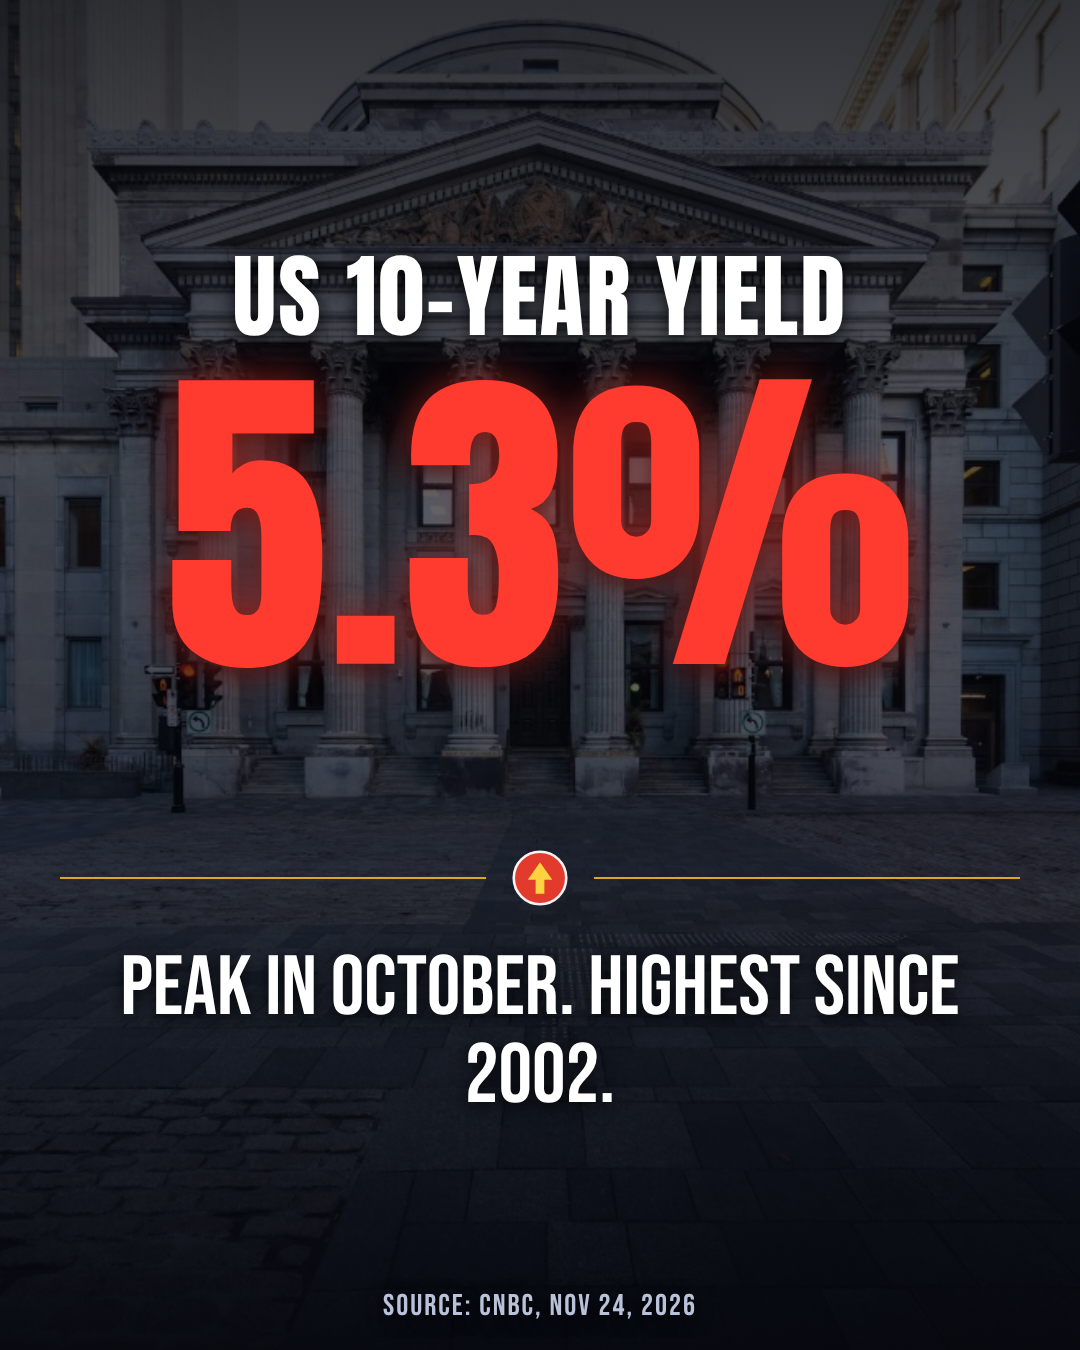
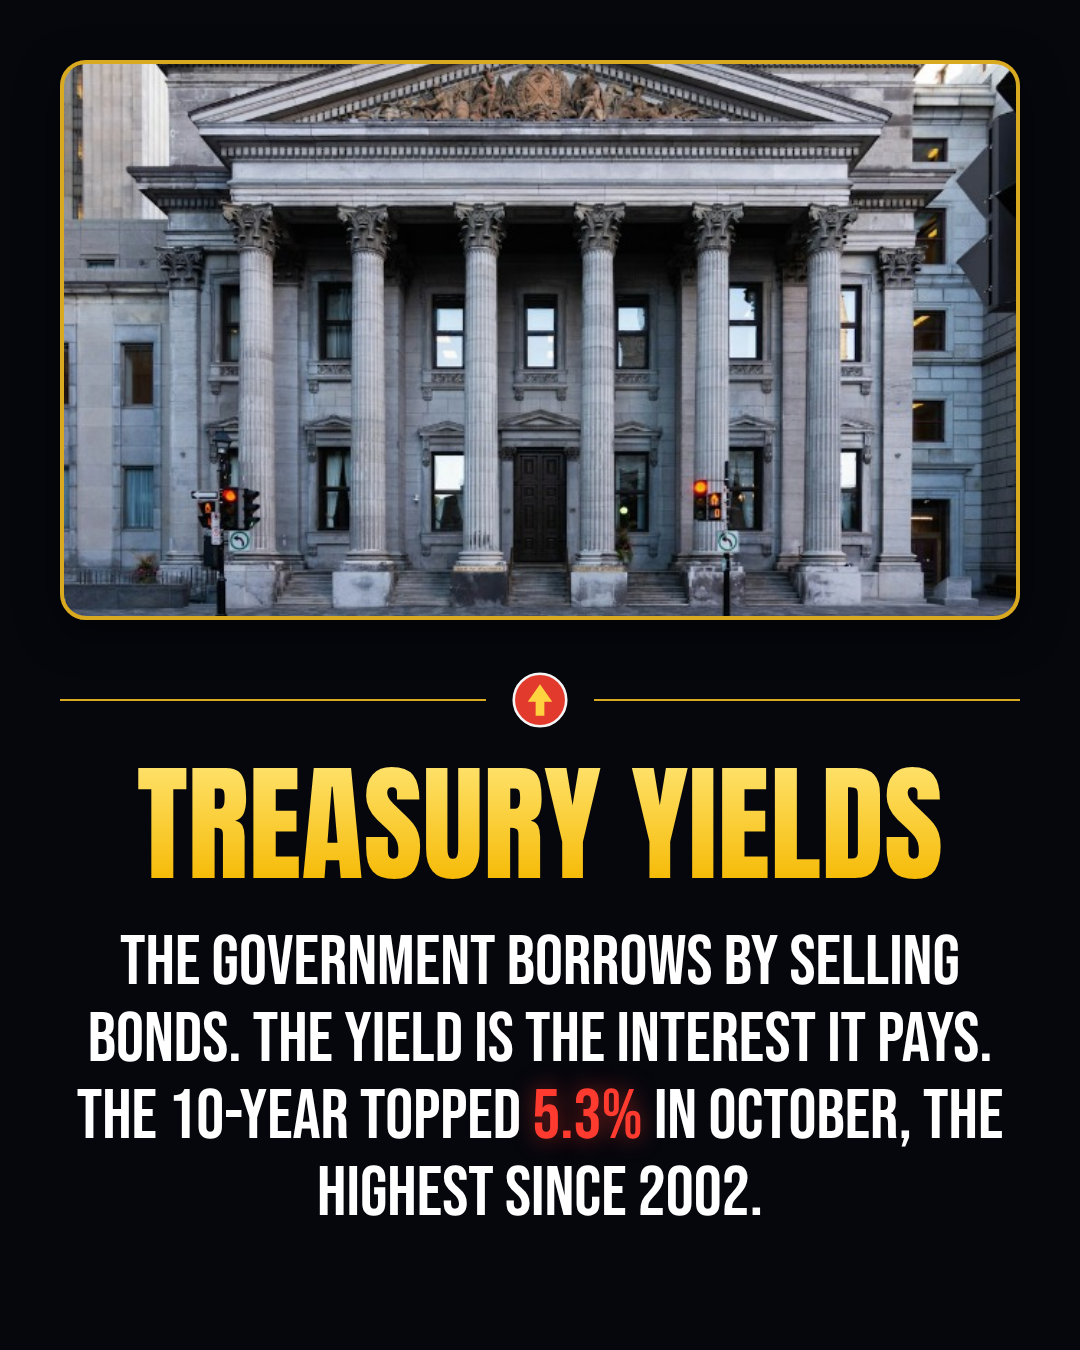
Photo carousel v2: small framed photos on slides 2-6, more text, no sources
Claude-Session: https://claude.ai/code/session_0194xvdwv4azv7wadnNrRT86

diff --git a/tools/make_photo_post.py b/tools/make_photo_post.py
@@ -3,7 +3,7 @@
 
 Usage: python3 make_photo_post.py spec_photo.json OUTDIR
 Spec: {"cover":{"title":"... [[24-YEAR]] ...","photo":"photos/x.jpg","pos":"50% 30%","hl":"red"},
-       "slides":[{"photo","pos","kicker","number","color","line","source"} x4],
+       "slides":[{"photo","pos","label","body","color"} x4]  (body: [[5.3%]] or [[red|5.3%]] = flashy number),
        "cta":{"photo","title","sub"}, "caption":"..."}
 [[...]] inside the cover title is painted in the flash colour hl. Photo paths are relative to the repo root.
 """
@@ -47,26 +47,40 @@ def cover(s):
             f'line-height:1.0;text-transform:uppercase;letter-spacing:1px;{GOLD}">{t}</div>')
 
 
+def flash(text, default):
+    """[[+4%]] or [[green|+4%]] -> flashy coloured number."""
+    def rep(m):
+        c, t = (m.group(1) or "").rstrip("|"), m.group(2)
+        col = FLASH.get(c, default) if c else default
+        return f'<span style="color:{col};text-shadow:0 0 22px {col}88">{t}</span>'
+    return re.sub(r"\[\[(?:(\w+)\|)?(.+?)\]\]", rep, esc(text))
+
+
+def framed(photo, pos):
+    p = os.path.join(ROOT, photo)
+    return (f'<div style="position:absolute;left:60px;top:60px;width:960px;height:560px;border-radius:26px;'
+            f'border:4px solid #d9a91f;box-sizing:border-box;box-shadow:0 12px 40px rgba(0,0,0,.6);'
+            f'background:url(\'file://{p}\') {pos or "50% 50%"}/cover no-repeat"></div>')
+
+
 def text_slide(s):
     col = FLASH.get(s.get("color", "green"), s.get("color"))
-    num = s["number"]
-    nf = 330 if len(num) <= 5 else 270 if len(num) <= 7 else 210
-    src = (f'<div style="position:absolute;left:60px;right:60px;top:1288px;text-align:center;{FONT_B};font-size:30px;'
-           f'letter-spacing:2px;color:#b9c2d9;text-transform:uppercase;{SHADOW}">{esc(s["source"])}</div>') if s.get("source") else ""
-    return (bg(s["photo"], s.get("pos"), dim=0.62) + grad(0, 420, 0.55, 0) + grad(700, 650, 0, 0.92) +
-            f'<div style="position:absolute;left:50px;right:50px;top:250px;text-align:center;{FONT_A};font-size:92px;line-height:1;'
-            f'text-transform:uppercase;letter-spacing:2px;color:#fff;{SHADOW}">{esc(s["kicker"])}</div>'
-            f'<div style="position:absolute;left:30px;right:30px;top:360px;text-align:center;{FONT_A};font-size:{nf}px;line-height:1;'
-            f'color:{col};text-shadow:0 0 40px {col}88,0 6px 24px rgba(0,0,0,.9)">{esc(num)}</div>' + divider(850, 56) +
-            f'<div style="position:absolute;left:60px;right:60px;top:945px;text-align:center;{FONT_B};font-size:84px;line-height:1.05;'
-            f'text-transform:uppercase;color:#fff;{SHADOW}">{esc(s["line"])}</div>' + src)
+    label, body = s["label"], s["body"]
+    lf = 128 if len(label) <= 15 else 104 if len(label) <= 19 else 88
+    plain = re.sub(r"\[\[(?:\w+\|)?|\]\]", "", body)
+    bf = 78 if len(plain) <= 105 else 70 if len(plain) <= 135 else 62 if len(plain) <= 170 else 54
+    return (framed(s["photo"], s.get("pos")) + divider(672, 56) +
+            f'<div style="position:absolute;left:50px;right:50px;top:760px;text-align:center;{FONT_A};font-size:{lf}px;line-height:1;'
+            f'text-transform:uppercase;{GOLD}">{esc(label)}</div>'
+            f'<div style="position:absolute;left:60px;right:60px;top:925px;text-align:center;{FONT_B};font-size:{bf}px;line-height:1.1;'
+            f'text-transform:uppercase;color:#fff">{flash(body, col)}</div>')
 
 
 def cta_slide(c):
-    return (bg(c["photo"], c.get("pos"), dim=0.35) + grad(380, 520, 0, 0.96) + grad(900, 450, 0.96, 1.0) + divider(870) +
-            f'<div style="position:absolute;left:50px;right:50px;top:945px;text-align:center;{FONT_A};font-size:140px;line-height:1.0;'
+    return (framed(c["photo"], c.get("pos")) + divider(672, 56) +
+            f'<div style="position:absolute;left:50px;right:50px;top:760px;text-align:center;{FONT_A};font-size:128px;line-height:1.0;'
             f'text-transform:uppercase;{GOLD}">{esc(c["title"])}</div>'
-            f'<div style="position:absolute;left:60px;right:60px;top:1235px;text-align:center;{FONT_B};font-size:60px;line-height:1.1;'
+            f'<div style="position:absolute;left:60px;right:60px;top:1115px;text-align:center;{FONT_B};font-size:68px;line-height:1.1;'
             f'text-transform:uppercase;color:#fff">{esc(c["sub"])}</div>')
 
 
